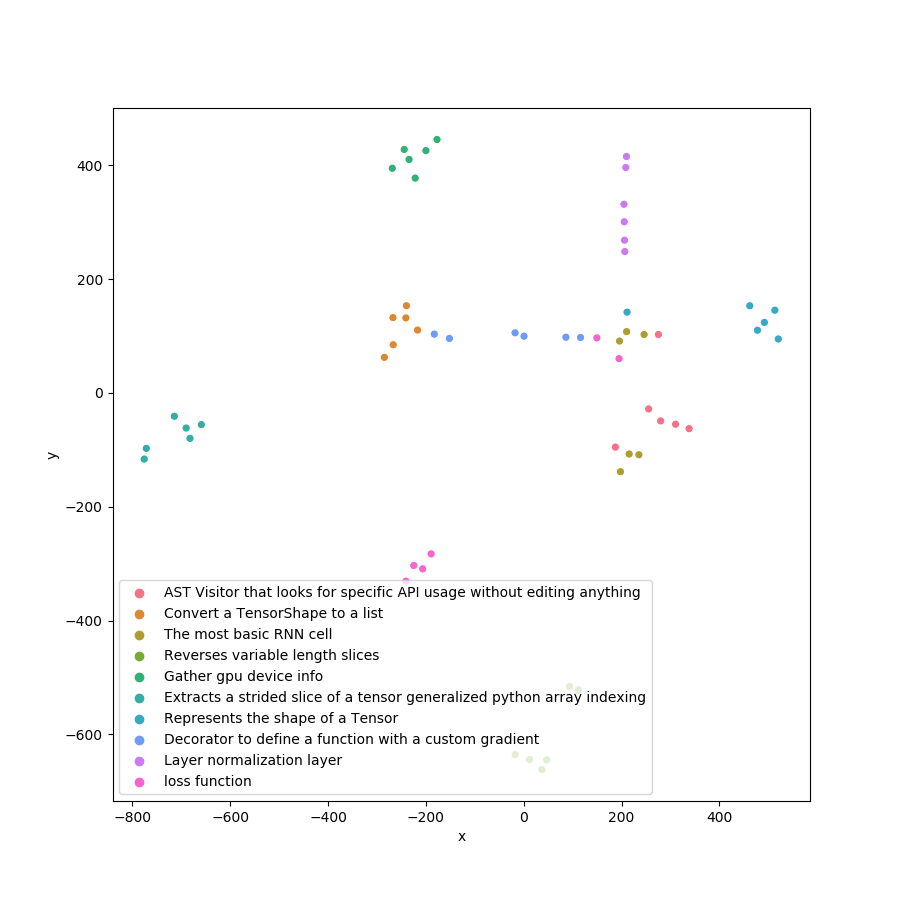
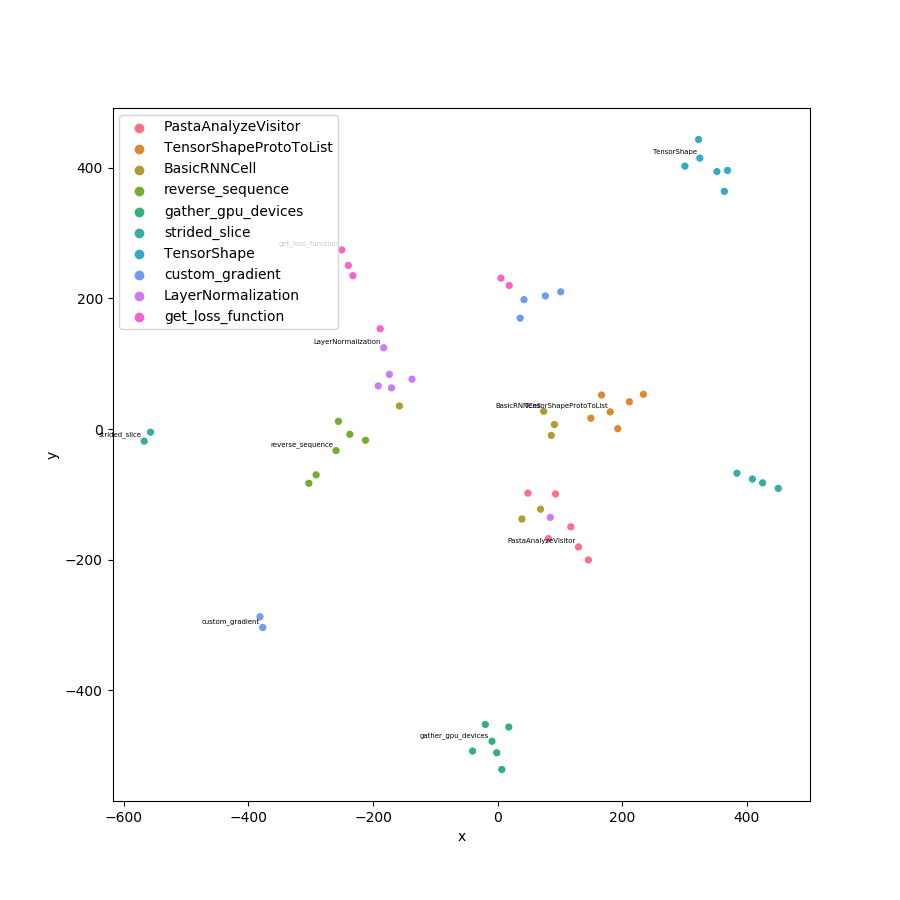
final submission

diff --git a/prec-recall.py b/prec-recall.py
@@ -23,7 +23,6 @@ def extract_ground_truth():
         if not line:
             break
         if line.strip() == '':
-            # print('empty')
             continue
 
         if count == 0:
@@ -53,17 +52,16 @@ def main():
 
     d2v_model = doc2vec(corpus)
 
-    search_engines = ["FREQ","TF-IDF", "LSI", "Doc2Vec"]
+    search_engines = ["FREQ", "TF-IDF", "LSI", "Doc2Vec"]
     # search_engines = ["Doc2Vec"]
 
     lsi_vectors = []
     doc2vec_vectors = []
     hues = []
 
-
     ## get hues
-    for query in queries:
-        hues.extend([query] * 6)
+    for function in entity_names:
+        hues.extend([function] * 6)
 
     ####### EVALUATING THE SEARCH ENGINES
     for search_engine in search_engines:
@@ -75,7 +73,6 @@ def main():
         ground_truth_counter = 0
 
         for query in queries:
-            # print("\nquery: ", query, '\n')
             if (search_engine == "FREQ"):
                 freq_sims = freq_similarity(freq_dictionary, freq_index, query)
                 topFive = top_five(freq_sims, df)
@@ -90,9 +87,6 @@ def main():
                 lsi_sims, lsi_index = lsi_similarity(lsi_dictionary, corpus_lsi, tfidf, lsi_model, query)
                 topFive = top_five(lsi_sims, df)
 
-                ## PRINT TOP 5
-                # print_top5(topFive)
-
                 corpus_bow = lsi_dictionary.doc2bow(query.lower().split())
                 vector = lsi_model[corpus_bow]
                 similarity = abs(lsi_index[vector])
@@ -105,7 +99,6 @@ def main():
                 for vector in embedding_lsi:
                     vectors = []
                     for idx, value in vector:
-                        # print(idx, value)
                         vectors.append(value)
                     lsi_vectors.append(vectors)
 
@@ -114,9 +107,6 @@ def main():
             elif (search_engine == "Doc2Vec"):
                 d2v_similarity = doc2vec_similarity(d2v_model, query)
                 topFive = top_five_doc2vec(d2v_similarity, df)
-
-                ## PRINT TOP5
-                # print_top5(topFive)
 
                 vector = d2v_model.infer_vector(query.lower().split())
                 sorted_similarities = [doc for doc in d2v_model.docvecs.most_similar([vector], topn=5)]
@@ -130,10 +120,6 @@ def main():
                 for vec in embedding_doc2vec:
                     doc2vec_vectors.append(vec)
 
-
-            # for i in topFive:
-            #     print(i)
-
             for i in range(len(topFive)):
                 entity = topFive[i][1]
                 file = topFive[i][2]
@@ -141,11 +127,7 @@ def main():
                     correct_answers += 1
                     precision += 1 / (i + 1)
                     break
-            # print("prec: ", precision)
-            # print()
             ground_truth_counter += 1
-
-        # print("correct answers: ",correct_answers)
 
         average_precision = precision / len(queries)
         recall = correct_answers / (len(queries))
@@ -157,7 +139,6 @@ def main():
 
     produce_plot('LSI', lsi_vectors, hues)
     produce_plot('DOC2VEC', doc2vec_vectors, hues)
-    # print(queries)
 
 
 def produce_plot(search_engine, vectors, hues):
@@ -167,7 +148,6 @@ def produce_plot(search_engine, vectors, hues):
     df['x'] = tsne_results[:, 0]
     df['y'] = tsne_results[:, 1]
     pyplot.figure(figsize=(9, 9))
-    print("len", len(hues))
     sns.scatterplot(
         x="x", y="y",
         hue=hues,
@@ -176,6 +156,14 @@ def produce_plot(search_engine, vectors, hues):
         legend="full",
         alpha=1.0
     )
+
+    ## Got help from Gregory Wullimann for this function to add label for each cluster
+    for idx, xy in enumerate(zip(tsne_results[:, 0], tsne_results[:, 1])):
+        if idx % 6 != 0:
+            continue
+        pyplot.annotate(hues[idx], xy=xy, xytext=(-2, 2),
+                        textcoords='offset points', ha='right', va='bottom',
+                        fontsize=5)
 
     pyplot.savefig(search_engine + ".png")
 

diff --git a/extract-data.py b/extract-data.py
@@ -13,7 +13,7 @@ def visitTree(tree, counter, df, fileName):
                 firstLine = ''
                 if (comment != None):
                     firstLine = comment.splitlines()[0]
-                    # print(node.name, '--', node.lineno, '==', 'class', "---", firstLine)
+
                 df.loc[index_counter] = [node.name, fileName, node.lineno, 'class', firstLine]
                 index_counter += 1
 
@@ -21,25 +21,25 @@ def visitTree(tree, counter, df, fileName):
                 if (type(method) == ast.FunctionDef):
                     if (method.name[
                         0] != "_" and method.name != "main" and method.name and "test" not in method.name.lower()):
-                        # print(method.name, '--', method.lineno, '==', 'method')
+
                         comment = ast.get_docstring(method)
 
                         firstLine = ''
                         if (comment != None):
                             firstLine = comment.splitlines()[0]
-                            # print(method.name, '--', method.lineno, '==', 'class', "---", firstLine)
+
                         df.loc[index_counter] = [method.name, fileName, method.lineno, 'method', firstLine]
                         index_counter += 1
 
 
         elif (type(node) == ast.FunctionDef):
             if (node.name[0] != "_" and node.name != "main" and node.name and "test" not in node.name.lower()):
-                # print(node.name, '--', node.lineno, '==', 'function', "---", firstLine)
+
                 comment = ast.get_docstring(node)
                 firstLine = ''
                 if (comment != None):
                     firstLine = comment.splitlines()[0]
-                    # print(node.name, '--', node.lineno, '==', 'function', "---", firstLine)
+
                 df.loc[index_counter] = [node.name, fileName, node.lineno, 'function', firstLine]
                 index_counter += 1
 
@@ -47,24 +47,27 @@ def visitTree(tree, counter, df, fileName):
 
 
 def main():
-    # path = '../myProj/'
+
     path = sys.argv[1]
     df = pd.DataFrame(columns=['name', 'file', 'line', 'type', 'comment'])
     index_counter = 0
-    # print(df)
+
     py_files_counter = 0
     for root, dirs, files in os.walk(path):
         for name in files:
             if name[-3:] == ".py":
-                # print(name)
+
                 py_files_counter += 1
                 fileName = os.path.join(root, name)
 
-                shortPath = root + "/" + name
+
+                shortPath = root + name if root[-1:] == '/' else root + '/' + name
+                shortPath = ".."+shortPath[shortPath.find('/tensorflow'):]
+
                 file = open(fileName, 'r').read()
                 astree = ast.parse(file);
                 index_counter = visitTree(astree, index_counter, df, shortPath)
-    # print(df)
+
     df.to_csv('data' + ".csv")
     print("total number of python files: ", py_files_counter)
 

diff --git a/search_data.py b/search_data.py
@@ -124,7 +124,6 @@ def get_corpus():
                 removeStopWords = [w for w in splitted if w not in stopWords]
                 comments = []
                 if (pd.notna(row['comment'])):
-                    # print(row['comment'])
                     comments = row['comment'].lower()
 
                     comments = comments.replace('_', ' ')
@@ -132,7 +131,6 @@ def get_corpus():
                     comments = comments.translate(str.maketrans('', '', string.punctuation))
                     comments = comments.split()
 
-                # print(comments)
                 splitted_words.extend(removeStopWords)
                 splitted_words.extend(comments)
         corpus.append(splitted_words)
@@ -140,13 +138,8 @@ def get_corpus():
 
 
 def main():
-    print(sys.argv[1])
-    # query = "AST Visitor that looks for specific API usage without editing anything"
-    # print(df['name'])
     query = sys.argv[1]
     corpus, df = get_corpus()
-
-    # print(corpus)
 
     print("\nFreq start...\n")
     freq_dictionary, freq_index = freq(corpus)
@@ -179,8 +172,6 @@ def main():
 
     print_top5(topfive)
     print("Doc2Vec end...\n")
-
-
 
 
 
